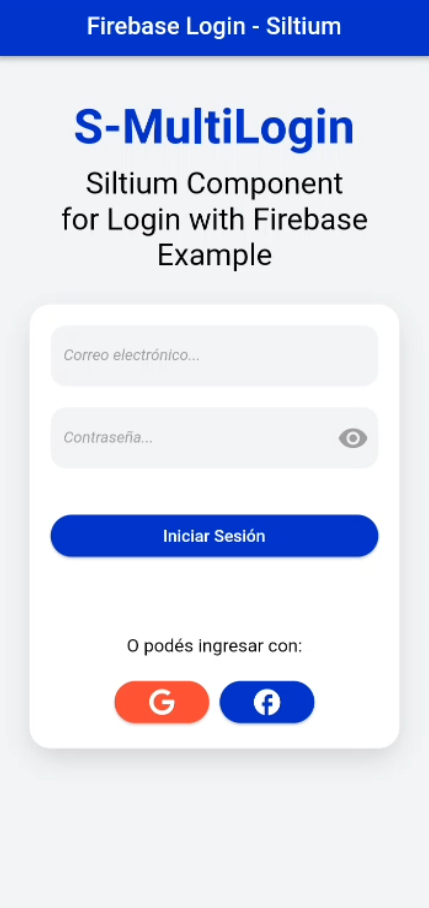
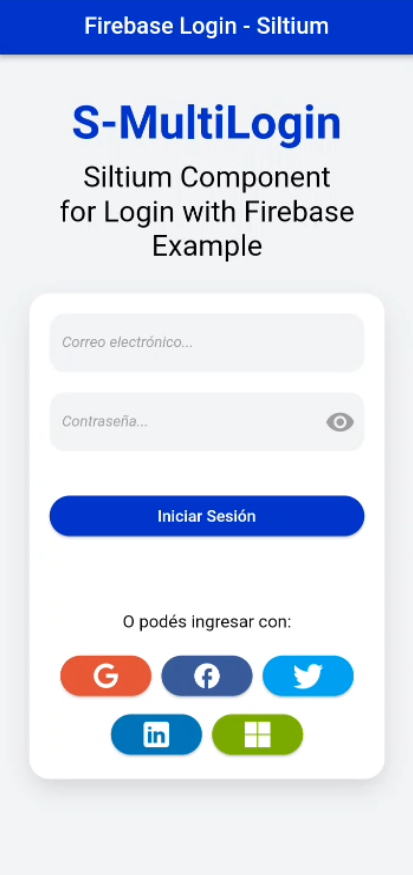
Add Twitter to Readme & update Readme

diff --git a/README.md b/README.md
@@ -1,6 +1,6 @@
 
 ------------------------------------------
-# **S-MultiLogin: Siltium Component for Social Media Login**<br> ![](https://img.shields.io/badge/Dart-Flutter-blue) ![](https://img.shields.io/badge/iOS-Android-green) ![](https://img.shields.io/badge/Email&Pass-yellow) ![](https://img.shields.io/badge/Google-red) ![](https://img.shields.io/badge/Facebook-blue) ![](https://img.shields.io/badge/en%20test-Apple-black)
+# **S-MultiLogin: Siltium Component for Social Media Login**<br> ![](https://img.shields.io/badge/Dart-Flutter-blue) ![](https://img.shields.io/badge/iOS-Android-green) <br> ![](https://img.shields.io/badge/Email&Pass-yellow) ![](https://img.shields.io/badge/Google-DD4B39) ![](https://img.shields.io/badge/Facebook-3B5998) ![](https://img.shields.io/badge/en%20test-Apple-black) ![](https://img.shields.io/badge/en%20test%20iOS-Twitter-00ACED) ![](https://img.shields.io/badge/en%20test%20iOS-LinkedIn-007BB6) ![](https://img.shields.io/badge/en%20test%20iOS-Microsoft-7cbb00)
 
 
 ## **Descripción**
@@ -9,15 +9,17 @@ Plugin para incluir en proyectos mobile de Siltium que permite utilizar el compo
 <br>
 
 ## **Versión**
-0.1.0 - **Version inicial -** Inicio de sesión con Email & Contraseña, Google y Facebook para Android.
+0.1.0 - **Version inicial -** Inicio de sesión con Email & Contraseña, Google y Facebook disponibles para Android.
 <br>
-0.2.0 - Inicio de sesión con Email & Contraseña, Google y Facebook para Android & iOS. Inicios de sesión con iOS y Apple en testing.
+0.2.0 - Inicio de sesión con Email & Contraseña, Google y Facebook disponibles para Android & iOS. Inicio de sesión con iOS y Apple en testing.
 <br>
-0.3.0 - Inicios de sesión con Email & Contraseña, Google y Facebook para Android & iOS. Inicio de sesión con Apple en testing.
+0.3.0 - Inicio de sesión con Email & Contraseña, Google y Facebook disponibles para Android & iOS. Inicio de sesión con Apple en testing.
+<br>
+0.4.0 - Inicio de sesión con Email & Contraseña, Google y Facebook disponibles para Android & iOS. Inicio de sesión con Twitter, LinkedIn y Microsoft disponibles para Android y en testing para iOS. Inicio de sesión con Apple en testing.
 <br>
 <br>
 
-## **Instalación (Android y iOS)**
+## **Instalación de la Librería (Android y iOS)**
 EN FLUTTER:
 
 1) Agregar la libreria en `pubspec.yaml`:
@@ -28,7 +30,7 @@ dependencies:
       url: https://github.com/YamiTeyssier/s-multilogin-plug.git
       ref: development
 ```
-Nota: Si se realizan cambios en la rama de dicho repositorio, es necesario realizar un `flutter clean` y un `flutter pub get` para ver reflejados dichos cambios en un proyecto externo.
+Nota: Si se realizan cambios en la rama de dicho repositorio, es necesario quitar la librería (comentarla), correr el comando `flutter pub get`, volver a agregar la librería (descomentarla) y finalmente volver a correr el comando `flutter pub get`.
 
 PARA ANDROID:
 
@@ -93,8 +95,34 @@ También puedes seguir la guía de la [Documentación oficial para Agregar Fireb
 
 <br>
 
-## **Habilitar los Inicio de sesión (Android y iOS)**
+## **Inicialización de la Librería (Android y iOS)**
+Para agregar y utilizar en tu proyecto el inicio de sesión de cualquier plataforma, primero debes seguir estos pasos:
+1) Importar la librería `s_multiloginp` y el archivo `firebase_options.dart` (generado anteriormente con la intalación/configuración de Firebase) en el archivo `main.dart` de tu proyecto:
+```dart
+// Package and Firebase options file import
+import 'package:s_multiloginp/s_multiloginp.dart';
+import 'firebase_options.dart';
+```
 
+2) Inicializar la librería en `main.dart` con `SMultiLogin().multiLoginInit()`, pasando a `MultiLoginInitModel` como parámetro un FirebaseOptions, que se encuentra en el archivo `firebase_options.dart`, como se muestra a continuación:
+```dart
+void main() async {
+  // Add package init
+  await SMultiLogin().multiLoginInit(
+    initModel: MultiLoginInitModel(
+      options: DefaultFirebaseOptions.currentPlatform, // FirebaseOptions de "firebase_options.dart"
+    ),
+  );
+  runApp(const MyApp());
+}
+```
+Nota: No olvidar agregar el `async` al `main()`.
+
+Ahora ya puedes agregar el login de diferentes plataformas/proveedores.
+
+<br>
+
+## **Agregar y Usar los Inicio de sesión (Android y iOS)**
 Nota: Para habilitar los diferentes proveedores, dirigirse a Authentication -> Sign-in method -> Agregar proveedor nuevo:
 
 ![Agregar nuevo proveedor](https://github.com/YamiTeyssier/s-multilogin-plug/blob/development/assets/readme_images/login_01.png)
@@ -148,7 +176,15 @@ Por lo tanto, es necesario realizar los siguientes pasos para iOS:
 
 ![Obtener CLIENT_ID y REVERSED_CLIENT_ID](https://github.com/YamiTeyssier/s-multilogin-plug/blob/development/assets/readme_images/google_06.png)
 
-2) Copiar el `CLIENT_ID` y colocarlo como parte del método `SMultiLogin().multiLoginInit()`, como se detalla más adelante en el uso de la librería (paso 2 de "Uso").
+2) Copiar el `CLIENT_ID` y colocarlo como parte del método `SMultiLogin().multiLoginInit()` (anteriormente iniciado en `main.dart`) como se detalla a continuación:
+```dart
+await SMultiLogin().multiLoginInit(
+  initModel: MultiLoginInitModel(
+    googleIOSClientId: "TU_CLIENT_ID", // CLIENT_ID de "GoogleService-Info.plist"
+  ),
+);
+```
+
 3) Luego, en el archivo `project_name\ios\Runner\Info.plist` agregar el siguiente código dentro de `<dict>...</dict>`, agregando el campo `REVERSED_CLIENT_ID` obtenido del archivo `GoogleService-Info.plist`:
 ```plist
 <!-- Google config-->
@@ -197,10 +233,10 @@ EN FLUTTER, resumen:
 PARA ANDROID:
 
 1) En el archivo `project_name\android\app\build.gradle` importar el SDK de Facebook y agregar un par de strings, con el `fbAppID` y el `fbClientToken` (Secret App) respectivamente y con esos nombres de variable:
-```
+```gradle
 defaultConfig {
         ...
-
+        // Facebook Android config
         resValue "string", "fbAppID", "\"TU_FB_APP_ID\""
         resValue "string", "facebook_client_token", "\"TU_FB_CLIENT_TOKEN\""
     }
@@ -246,30 +282,84 @@ Nota: En `CFBundleURLSchemes` en necesario colocar el texto "fb" antes del `FB_A
 ### **LOGIN CON APPLE:** Pendiente de configuración en Apple Dev.
 
 ~
+### **LOGIN CON TWITTER:**
+1) Iniciar sesión con una cuenta de twitter, ingresar a [Twitter Developers](https://developer.twitter.com/) e ir a "Developer Portal", para crear un proyecto (o usar el creado por defecto) y una aplicación de twitter.<br>
+Nota: si no tienes una cuenta developer, necesitarás activarla enviando las razones de uso de la misma. Finalizado esto te enviará a tu dashboard. Si te generó automáticamente una aplicación por defecto, será necesario borrarla y hacer una nueva app para que asi te den las API Keys y Secret, necesarias para la implementacion del login en flutter.
+
+![Developer Portal](https://github.com/YamiTeyssier/s-multilogin-plug/blob/development/assets/readme_images/twitter_01.png)
+
+![Crear proyecto y app en twitter Devs](https://github.com/YamiTeyssier/s-multilogin-plug/blob/development/assets/readme_images/twitter_02.png)
+
+2) Estas API key y secret, colocarlas en la configuracion de la consola de firebase para habilitar el inicio de sesión con twitter.
+
+![Habilitar twitter login](https://github.com/YamiTeyssier/s-multilogin-plug/blob/development/assets/readme_images/twitter_03.png)
+
+![Agregar keys de twitter](https://github.com/YamiTeyssier/s-multilogin-plug/blob/development/assets/readme_images/twitter_04.png)
+
+3) Configurar la autenticación de usuarios en el Developer Portal, seleccionando la aplicación y desplazandote hasta el fondo, donde deberás hacer clik en "Set up" en la parte "User authentication settings".
+Deberás elegir que permisos necesitas para la aplicación (lectura de tuits y perfil, lectura y escritura de tuits, etc.), el tipo de tu app (en este caso, Native App) y te mostrará la información del Client ID. Aqui tambien deberas colocar una URL tipo esquema (sheme//:) que NO sea la que da firebase, sino una custom que tambien será definida en la aplicación para asi poder redirigir desde el navegador a la misma.
+
+![User auth settings en dashboard](https://github.com/YamiTeyssier/s-multilogin-plug/blob/development/assets/readme_images/twitter_05.png)
+
+![User auth settings](https://github.com/YamiTeyssier/s-multilogin-plug/blob/development/assets/readme_images/twitter_06.png)
+
+![App scheme](https://github.com/YamiTeyssier/s-multilogin-plug/blob/development/assets/readme_images/twitter_07.png)
+
+~
+
+EN FLUTTER, resumen:
+
+1) Inicializar el login de twitter en tu proyecto, pasando como parámetros al método `SMultiLogin().multiLoginInit()` (anteriormente iniciado en `main.dart`) tu API Key, API Secret y esquema de redireccionamiento de Twitter, como se detalla a continuación:
+```dart
+await SMultiLogin().multiLoginInit(
+  initModel: MultiLoginInitModel(
+    twitterInitData: TwitterLoginModel(
+      apiKey: "TU_API_KEY",
+      apiSecretKey: "TU_API_SECRET",
+      redirectURI: "customscheme://",
+    ),
+  ),
+);
+```
+
+PARA ANDROID:
+
+1) En el archivo `project_name\android\app\build.gradle` agregar el mismo esquema de redireccionamiento como un string con el nombre de variable `twRedirectURL`:
+```gradle
+defaultConfig {
+        ...
+        // Twitter Android config
+         resValue "string", "twRedirectURL", "\"customscheme\""
+    }
+```
+Nota: Es necesario escapar las comillas para que el archivo `build.gradle` lo tome como un string y NO colocar "://" al final del nombre del esquema.<br>
+~
+
+Para IOS:
+
+1) En el archivo `project_name\ios\Runner\Info.plist` agregar el siguiente código dentro de `<dict>...</dict>`, agregando también en él tu esquema de redireccionamiento:
+```plist
+<!-- Twitter iOS config -->
+    <key>CFBundleURLTypes</key>
+		<array>
+			<dict>
+				<key>CFBundleTypeRole</key>
+				<string>Editor</string>
+				<key>CFBundleURLSchemes</key>
+				<array>
+					<string>customscheme</string>
+				</array>
+			</dict>
+		</array>
+```
+Nota: NO colocar "://" al final del nombre del esquema.
+
+~
+
 <br>
 
-## **Uso**
-1) Importar el paquete en `main.dart` y el archivo `firebase_options.dart`, generado anteriormente con la intalación/configuración de Firebase en el proyecto:
-```dart
-// Package and Firebase options file import
-import 'package:s_multiloginp/s_multiloginp.dart';
-import 'firebase_options.dart';
-```
-
-2) Inicializar el paquete en `main.dart` con `SMultiLogin().multiLoginInit()` pasando como parámetros un FirebaseOptions, que se encuentra en el archivo `firebase_options.dart`, y el `CLIENT_ID` obtenido del archivo `GoogleService-Info.plist` (paso 1 de Login con Google-iOS):
-```dart
-void main() async {
-  // Add package init (for Android)
-  await SMultiLogin().multiLoginInit(
-    DefaultFirebaseOptions.currentPlatform, // FirebaseOptions de "firebase_options.dart"
-    "TU_CLIENT_ID", // CLIENT_ID de "GoogleService-Info.plist"
-  );
-  runApp(const MyApp());
-}
-```
-Nota: No olvidar agregar el `async` al `main()`.
-
-3) Llamar a `SMultiLoginComponent()`.<br>
+## **Uso de la Librería**
+1) Llamar a `SMultiLoginComponent()` en tu proyecto.<br>
 Nota: Se puede elegir uno de entre 4 "modos" de diseño por defecto, que son:
 ```dart
 // Dos modos, uno minimalista y otro con más detalle respectivamente, encerrados en una Card con un estilo el cual es personalizable:
@@ -282,7 +372,7 @@ SMultiLoginComponent.complexMode();
 ```
 Cada uno de estos "modos", a su vez, también es personalizable.
 
-4) Especificar los parametros deseados:
+2) Especificar los parametros deseados:
 	- `onResultEmailLogin` - para incluir en inicio de sesión con correo y contraseña
 	- `onResultGoogleLogin` - para incluir en inicio de sesión con una cuenta de Google
 	- `onResultFacebookLogin` - para incluir en inicio de sesión con Facebook (por el momento, solo con android)
@@ -291,20 +381,20 @@ Cada uno de estos "modos", a su vez, también es personalizable.
 Nota: para contar con un metodo de inicio de sesión, incluir el metodo onResult deseado. En caso contrario, no incluirlo.<br>
 El resto de parametros son opcionales para personalizar el diseño del componente, de ser necesario.
 
-5) Otros Metodos disponibles:
+3) Otros Metodos disponibles:
 ```dart
 // Para cerrar sesión en la instancia Firebase.
 // LLamarlo al cerrar sesión en la app
 SMultiLogin().logout();
 // Para obtener el correo o el nombre del
 // usuario que inició sesión.
-// Se puede usar para verificar el login
+// Se puede usar para verificar el login. Trae data del usuario...
 SMultiLogin().userData(),
 ```
 
 EJEMPLOS:
 ```dart
-// Ejemplo de SMultiLoginComponent.simpleCardMode(), diseño por defecto e inicio de sesión a través de correo, google y facebook:
+// Ejemplo de SMultiLoginComponent.simpleCardMode(), diseño por defecto e inicio de sesión a través de correo, google, facebook, twitter, linkedin y microsoft:
 SMultiLoginComponent.simpleCardMode(
   footerText: "O podés ingresar con:",
   onResultEmailLogin: (data) {
@@ -324,6 +414,24 @@ SMultiLoginComponent.simpleCardMode(
   },
   onErrorFacebookLogin: (error) {
     // código onError Facebook
+  },
+  onResultTwitterLogin: (data) {
+    // código onResult Twitter
+  },
+  onErrorTwitterLogin: (error) {
+    // código onError Twitter
+  },
+  onResultLinkedinLogin: (data) {
+    // código onResult LinkedIn
+  },
+  onErrorLinkedinLogin: (error) {
+    // código onError LinkedIn
+  },
+  onResultMicrosoftLogin: (data) {
+    // código onResult Microsoft
+  },
+  onErrorMicrosoftLogin: (error) {
+    // código onError Microsoft
   },
 );
 ```
